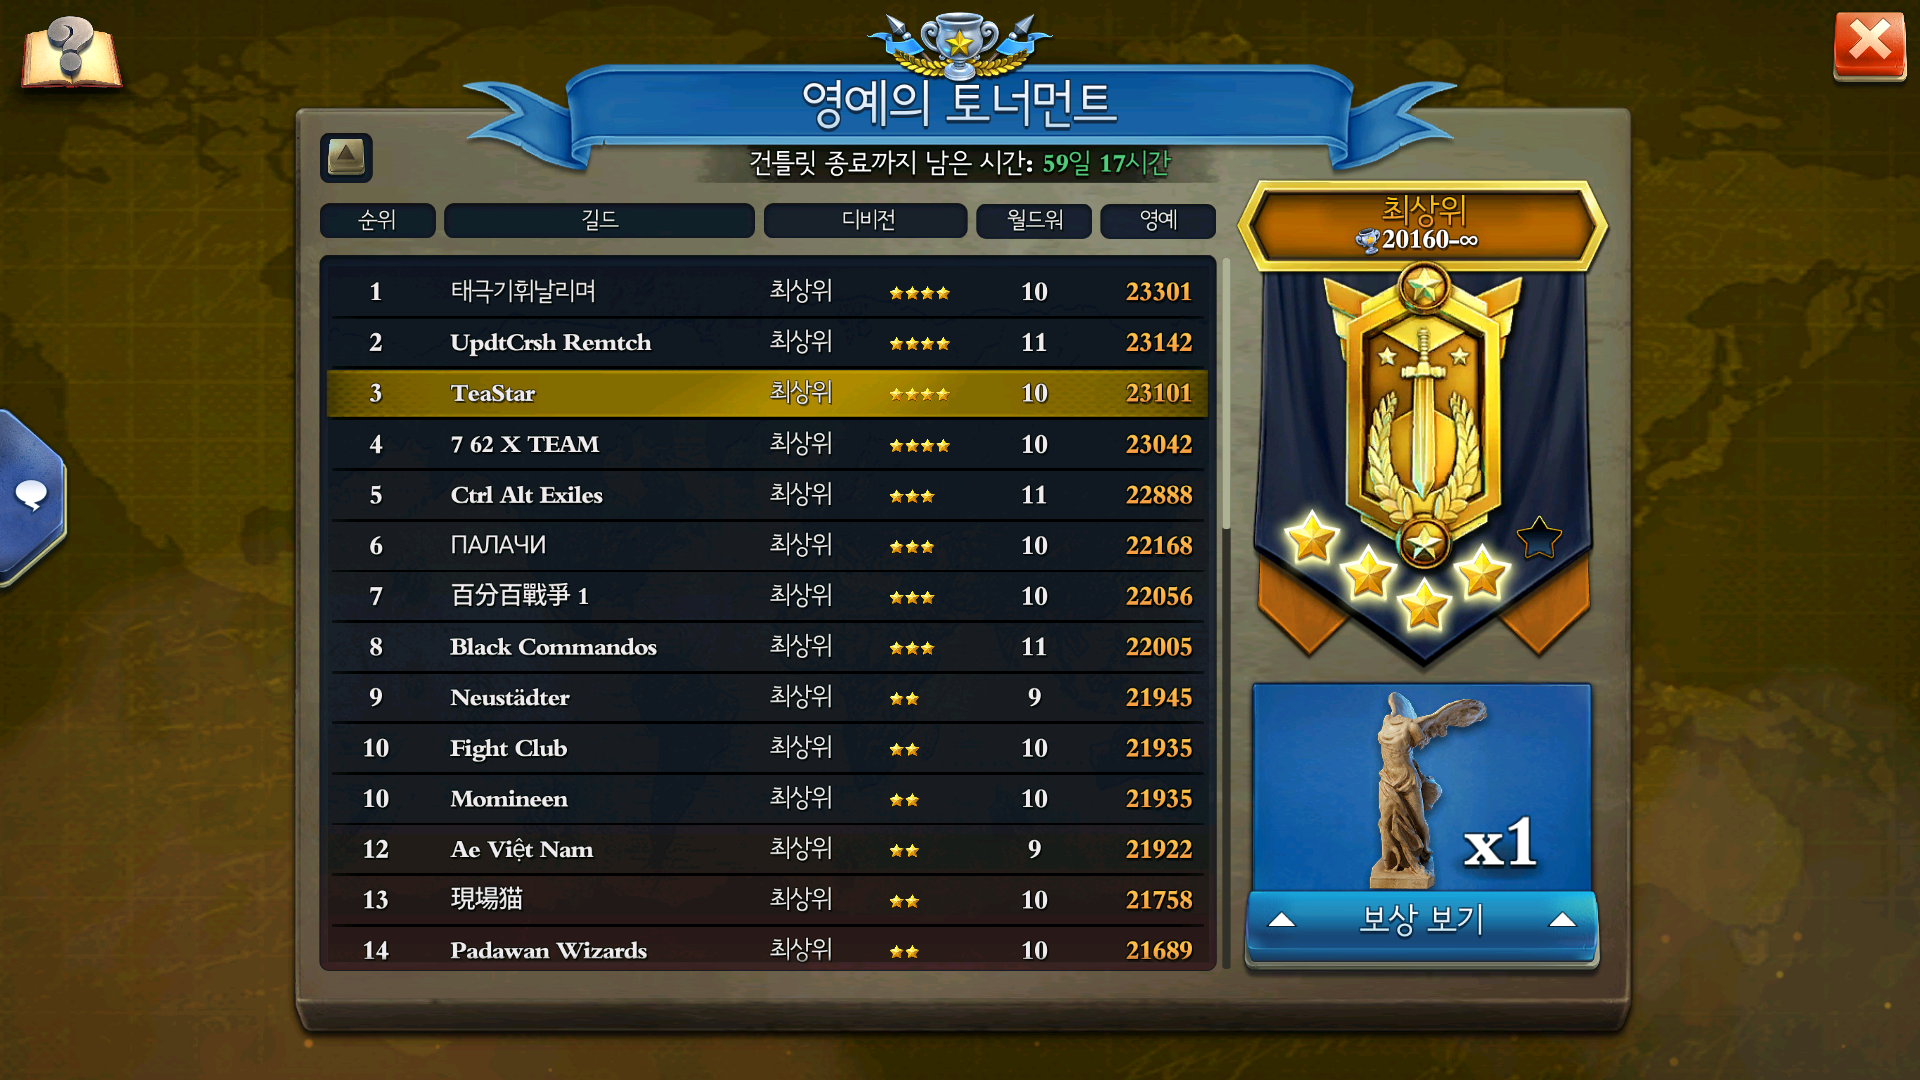
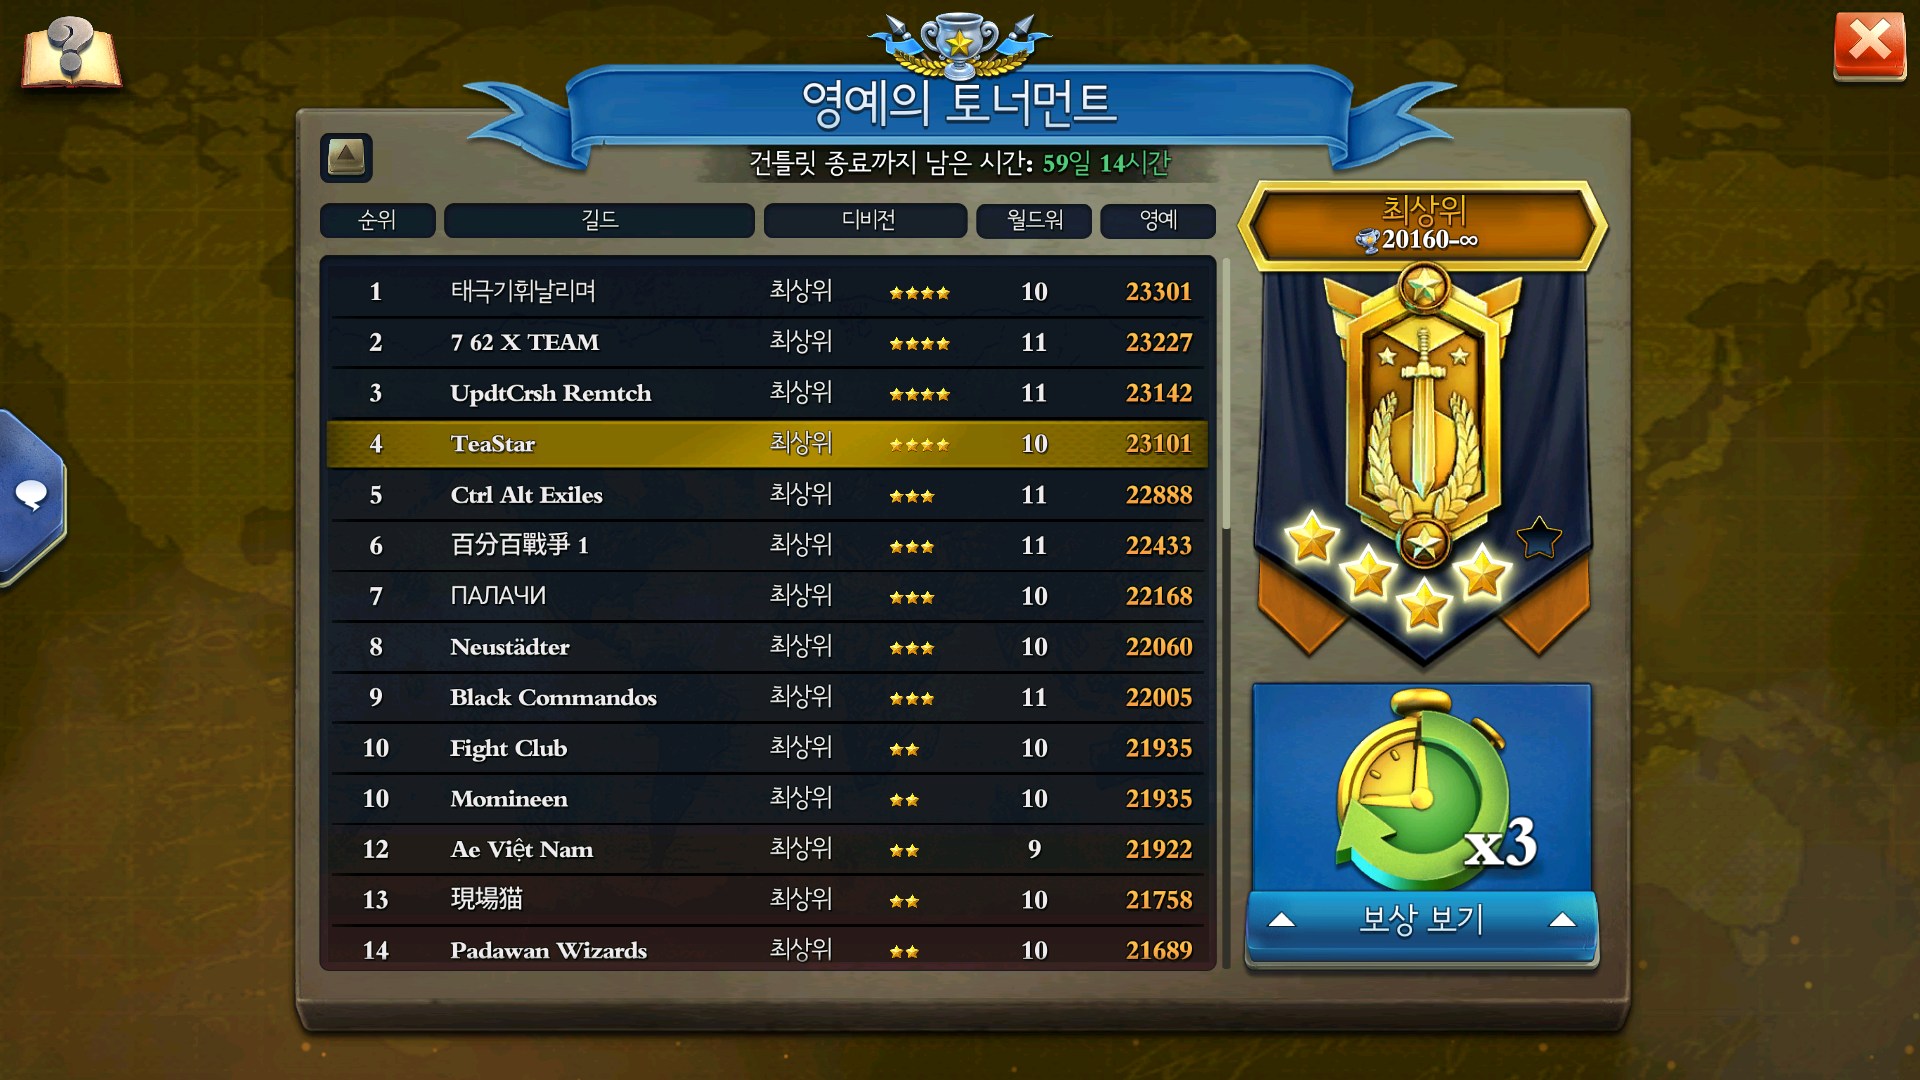
add yellow text time

diff --git a/glory.html b/glory.html
@@ -140,19 +140,39 @@
         }
 
         const sortedKeys = Object.keys(data).sort((a,b) => parseInt(a) - parseInt(b));
+        const now = new Date(); // 현재 시간
 
         sortedKeys.forEach(rank => {
             const item = data[rank];
             const rankClass = rank <= 3 ? `rank-${rank}` : '';
             const scoreStr = item.score.toLocaleString();
-            let timeStr = item.time ? item.time : '-'; 
+            
+            let timeStr = '-';
+            let timeStyle = 'color:var(--muted2);'; // 기본 색상 (회색)
+
+            if (item.time) {
+                timeStr = item.time;
+                
+                // [추가된 기능] 24시간 이내 변동 체크
+                // 문자열 날짜("2025-01-29 10:00:00")를 날짜 객체로 변환
+                // (아이폰/사파리 호환성을 위해 ' '를 'T'로 바꾸는 것이 안전함)
+                const updateTime = new Date(item.time.replace(' ', 'T'));
+                const diffMs = now - updateTime; // 시간 차이 (밀리초)
+                const diffHours = diffMs / (1000 * 60 * 60); // 시간 단위로 변환
+
+                if (diffHours < 24) {
+                    // 24시간 이내라면 노란색 + 굵게
+                    timeStyle = 'color:var(--yellow); font-weight:700; text-shadow:0 0 5px rgba(250,204,21,0.2);';
+                }
+            }
 
             html += `
             <div class="glory-row ${rankClass}">
                 <div class="rank-num">#${rank}</div>
                 <div style="display:flex; flex-direction:column; justify-content:center; padding-left:10px;">
                     <div class="guild-name" style="padding-left:0;">${item.name}</div>
-                    <div style="font-size:11px; color:var(--muted2); margin-top:2px; letter-spacing:-0.5px;">
+                    
+                    <div style="font-size:11px; margin-top:2px; letter-spacing:-0.5px; ${timeStyle}">
                         🕒 ${timeStr}
                     </div>
                 </div>
@@ -162,7 +182,6 @@
         });
 
         board.innerHTML = html;
-        const now = new Date();
         document.getElementById('last-update').innerText = now.toLocaleString(); 
     }
   </script>

diff --git a/tracker/tracker.py b/tracker/tracker.py
@@ -17,20 +17,25 @@ START_Y = 275
 ROW_GAP = 50.8         
 SCORE_WIDTH = 100      
 HEIGHT = 30            
-
 GUILD_START_X = 445    
 GUILD_WIDTH = 250      
 
-# JSON 파일 경로 (상위 폴더)
+# 웹사이트용 데이터 (상위 14개만 저장)
 DATA_FILE_PATH = "../data.json"
+# [NEW] 봇의 장기 기억 저장소 (모든 길드 기록 저장)
+HISTORY_FILE_PATH = "history.json"
 
-# =================================================================
+UPLOAD_INTERVAL = 60 
+
+# =========================================================
 
 def capture_screen():
     try:
         subprocess.call(f'"{ADB_CMD}" shell screencap -p /sdcard/monitor.png', shell=True)
         subprocess.call(f'"{ADB_CMD}" pull /sdcard/monitor.png .', shell=True)
-        return cv2.imread("monitor.png")
+        if os.path.exists("monitor.png"):
+            return cv2.imread("monitor.png")
+        return None
     except Exception as e:
         print(f"캡처 오류: {e}")
         return None
@@ -51,7 +56,6 @@ def extract_score(image, rank):
     if y+h > image.shape[0] or x+w > image.shape[1]: return None
     roi = image[y:y+h, x:x+w]
     processed = preprocess_image(roi, is_score=True)
-    cv2.imwrite(f"debug_score_{rank+1}.png", processed)
     text = pytesseract.image_to_string(processed, config='--psm 7 outputbase digits')
     try:
         return int(''.join(filter(str.isdigit, text)))
@@ -66,30 +70,44 @@ def extract_guild_name(image, rank):
     if y+h > image.shape[0] or x+w > image.shape[1]: return None
     roi = image[y:y+h, x:x+w]
     processed = preprocess_image(roi, is_score=False)
-    cv2.imwrite(f"debug_guild_{rank+1}.png", processed)
     try:
         text = pytesseract.image_to_string(processed, lang='kor+eng+rus+chi_tra+jpn', config='--psm 7')
         return text.strip()
-    except pytesseract.TesseractError:
-        text = pytesseract.image_to_string(processed, lang='eng', config='--psm 7')
-        return text.strip()
+    except:
+        return ""
 
-def load_previous_data():
-    """기존 data.json이 있으면 불러와서 시간 정보를 기억함"""
-    if os.path.exists(DATA_FILE_PATH):
+# [NEW] 히스토리 파일 관리 함수
+def load_history():
+    if os.path.exists(HISTORY_FILE_PATH):
         try:
-            with open(DATA_FILE_PATH, "r", encoding="utf-8") as f:
+            with open(HISTORY_FILE_PATH, "r", encoding="utf-8") as f:
                 return json.load(f)
         except:
             pass
     return {}
 
+def save_history(history_data):
+    with open(HISTORY_FILE_PATH, "w", encoding="utf-8") as f:
+        json.dump(history_data, f, ensure_ascii=False, indent=4)
+
+def upload_to_github():
+    print("☁ GitHub에 데이터 업로드 중...")
+    try:
+        parent_dir = ".." 
+        subprocess.run(["git", "add", "data.json"], cwd=parent_dir, check=True)
+        timestamp = datetime.now().strftime("%H:%M:%S")
+        subprocess.run(["git", "commit", "-m", f"Auto update: {timestamp}"], cwd=parent_dir, check=True)
+        subprocess.run(["git", "push", "origin", "main"], cwd=parent_dir, check=True)
+        print(f"✅ 업로드 성공!")
+    except Exception as e:
+        print(f"⚠ 업로드 실패: {e}")
+
 def main():
-    print("=== 길드명 & 점수 모니터링 시작 ===")
+    print(f"=== 스마트 모니터링 봇 (장기 기억 장착) 가동 ===")
     
-    # [중요] 봇 시작 시 기존 데이터를 불러옵니다.
-    prev_scores = load_previous_data()
-    print(f"📂 기존 데이터 로드 완료: {len(prev_scores)}개 길드 정보")
+    # 봇 시작 시 '장기 기억(history.json)'을 불러옵니다.
+    history_db = load_history()
+    print(f"📂 히스토리 로드 완료: {len(history_db)}개 길드 기억 중")
 
     while True:
         try:
@@ -101,44 +119,61 @@ def main():
             current_time = datetime.now().strftime("%Y-%m-%d %H:%M:%S")
             print(f"\n[Check: {current_time}]")
 
+            current_display_data = {} # 웹사이트에 보여줄 이번 턴 데이터
+            
             for i in range(14):
-                rank = str(i + 1) # JSON 키는 문자열로 저장됨
-                
+                rank = str(i + 1)
                 guild_name = extract_guild_name(img, i)
                 score = extract_score(img, i)
                 
                 if score is None: score = 0 
                 if guild_name == "": guild_name = "인식실패"
 
-                # === [핵심 로직] 시간 갱신 ===
-                last_time = current_time # 기본값은 현재 시간
-                
-                if rank in prev_scores:
-                    old_data = prev_scores[rank]
-                    old_score = old_data.get('score', 0)
-                    old_time = old_data.get('time', current_time)
+                # 1. 일단 현재 시간으로 가정
+                final_time = current_time 
 
-                    # 점수가 같으면 -> 시간은 '옛날 시간' 그대로 유지
-                    if score == old_score and score != 0:
-                        last_time = old_time
-                    # 점수가 다르면 -> '현재 시간'으로 갱신 (로그 출력)
-                    elif score != old_score and score != 0:
-                        msg = f"🔔 [변동] {rank}위 ({guild_name}) | {old_score} -> {score} | {current_time}"
-                        print("  >>> " + msg)
-                        with open("glory_log.txt", "a", encoding="utf-8") as f:
-                            f.write(msg + "\n")
+                # 2. 장기 기억(history_db) 뒤져보기
+                if guild_name in history_db:
+                    record = history_db[guild_name]
+                    last_known_score = record['score']
+                    last_known_time = record['time']
+
+                    # [핵심 로직] 점수가 기억 속의 점수와 똑같다면?
+                    if score == last_known_score and score != 0:
+                        # 순위가 바뀌어서 나갔다 왔든 뭐든 상관없이 옛날 시간 유지!
+                        final_time = last_known_time
+                    
+                    # 점수가 다르면? -> 현재 시간으로 확정 (이미 final_time = current_time)
+                    elif score != last_known_score and score != 0:
+                         print(f"  >>> 🔔 변동: {guild_name} ({last_known_score} -> {score})")
+
+                # 3. 데이터 확정 및 저장
                 
-                # 데이터 업데이트 (시간 정보 'time' 추가됨)
-                prev_scores[rank] = {'name': guild_name, 'score': score, 'time': last_time}
+                # (1) 웹사이트용 데이터 (현재 순위표)
+                current_display_data[rank] = {'name': guild_name, 'score': score, 'time': final_time}
                 
-                print(f"{rank}위 | {guild_name} | {score} | ({last_time})")
+                # (2) 장기 기억 업데이트 (순위 상관없이 이름 기준으로 저장)
+                # 인식 실패가 아닐 때만 기억
+                if guild_name != "인식실패" and guild_name != "":
+                    history_db[guild_name] = {'score': score, 'time': final_time}
+
+                print(f"{rank}위 | {guild_name} | {score}")
 
             # 파일 저장
+            
+            # 1. 히스토리 저장 (tracker 폴더 안)
+            save_history(history_db)
+            
+            # 2. 웹사이트용 데이터 저장 (상위 폴더)
             with open(DATA_FILE_PATH, "w", encoding="utf-8") as f:
-                json.dump(prev_scores, f, ensure_ascii=False, indent=4)
-                print("💾 데이터 업데이트 완료")
+                json.dump(current_display_data, f, ensure_ascii=False, indent=4)
+                print("💾 로컬 저장 완료")
 
-            time.sleep(30) # 30초 대기
+            # GitHub 업로드
+            upload_to_github()
+
+            print(f"⏳ {UPLOAD_INTERVAL}초 대기...")
+            time.sleep(UPLOAD_INTERVAL)
 
         except KeyboardInterrupt:
             break
